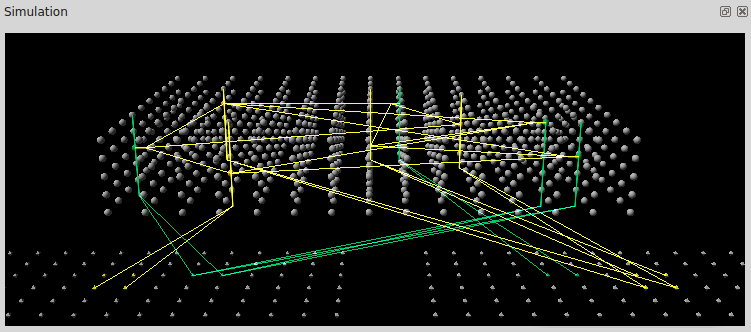
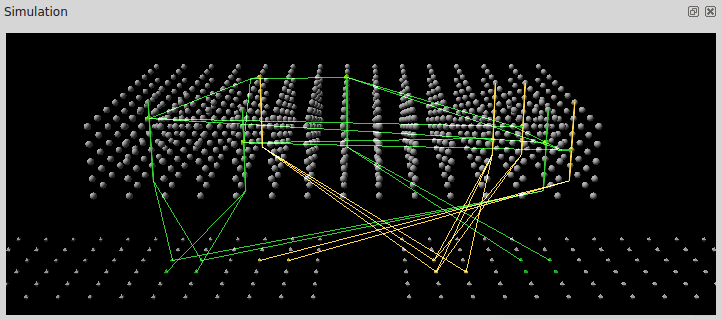
new color scheme

diff --git a/nustudio/ui/simulation_form.py b/nustudio/ui/simulation_form.py
@@ -43,30 +43,35 @@ class SimulationForm(QtGui.QWidget):
 		# Colors
 		colorGray = QtGui.QColor.fromRgb(190, 190, 190)
 		colorBlue = QtGui.QColor.fromRgb(0, 0, 255)
-		colorGreen = QtGui.QColor.fromRgb(0, 200, 100)
-		colorYellow = QtGui.QColor.fromRgb(255, 255, 50)
-		colorCopper = QtGui.QColor.fromRgb(255, 180, 100)
+		colorGreen = QtGui.QColor.fromRgb(50, 205, 50)
+		colorLightGreen = QtGui.QColor.fromRgb(125, 255, 0)
+		colorYellow = QtGui.QColor.fromRgb(255, 215, 80)
+		colorRed = QtGui.QColor.fromRgb(255, 0, 0)
 
 		# General color scheme
 		self.colorInactive = colorGray
 		self.colorSelected = colorBlue
 
 		# Sensor bit color scheme
-		self.colorBitActive = colorYellow
-		self.colorBitPredicted = colorGreen
+		self.colorBitActive = colorGreen
+		self.colorBitPredicted = colorYellow
+		self.colorBitFalselyPredicted = colorRed
 
 		# Cell color scheme
-		self.colorCellLearning = colorCopper
-		self.colorCellActive = colorYellow
-		self.colorCellPredicted = colorGreen
+		self.colorCellLearning = colorLightGreen
+		self.colorCellActive = colorGreen
+		self.colorCellPredicted = colorYellow
+		self.colorCellFalselyPredicted = colorRed
 
 		# Segment color scheme
-		self.colorSegmentActive = colorYellow
-		self.colorSegmentPredicted = colorGreen
+		self.colorSegmentActive = colorGreen
+		self.colorSegmentPredicted = colorYellow
+		self.colorSegmentFalselyPredicted = colorRed
 
 		# Synapse color scheme
-		self.colorSynapseConnected = colorYellow
-		self.colorSynapsePredicted = colorGreen
+		self.colorSynapseConnected = colorGreen
+		self.colorSynapsePredicted = colorYellow
+		self.colorSynapseFalselyPredicted = colorRed
 
 		#endregion
 
@@ -171,11 +176,18 @@ class SimulationForm(QtGui.QWidget):
 		self.menuShowBitsPredicted.setCheckable(True)
 		self.menuShowBitsPredicted.triggered.connect(self.menuShowBits_Click)
 
+		# menuShowBitsFalselyPredicted
+		self.menuShowBitsFalselyPredicted = QtGui.QAction(self)
+		self.menuShowBitsFalselyPredicted.setText("&Falsely Predicted")
+		self.menuShowBitsFalselyPredicted.setCheckable(True)
+		self.menuShowBitsFalselyPredicted.triggered.connect(self.menuShowBits_Click)
+
 		# menuShowBits
 		self.menuShowBits = QtGui.QMenu()
 		self.menuShowBits.addAction(self.menuShowBitsNone)
 		self.menuShowBits.addAction(self.menuShowBitsActive)
 		self.menuShowBits.addAction(self.menuShowBitsPredicted)
+		self.menuShowBits.addAction(self.menuShowBitsFalselyPredicted)
 		self.menuShowBits.setTitle("&Sensor bits")
 
 		# menuShowCellsNone
@@ -202,12 +214,19 @@ class SimulationForm(QtGui.QWidget):
 		self.menuShowCellsPredicted.setCheckable(True)
 		self.menuShowCellsPredicted.triggered.connect(self.menuShowCells_Click)
 
+		# menuShowCellsFalselyPredicted
+		self.menuShowCellsFalselyPredicted = QtGui.QAction(self)
+		self.menuShowCellsFalselyPredicted.setText("&Falsely Predicted")
+		self.menuShowCellsFalselyPredicted.setCheckable(True)
+		self.menuShowCellsFalselyPredicted.triggered.connect(self.menuShowCells_Click)
+
 		# menuShowCells
 		self.menuShowCells = QtGui.QMenu()
 		self.menuShowCells.addAction(self.menuShowCellsNone)
 		self.menuShowCells.addAction(self.menuShowCellsLearning)
 		self.menuShowCells.addAction(self.menuShowCellsActive)
 		self.menuShowCells.addAction(self.menuShowCellsPredicted)
+		self.menuShowCells.addAction(self.menuShowCellsFalselyPredicted)
 		self.menuShowCells.setTitle("C&ells")
 
 		# menuShowProximalSegmentsNone
@@ -228,11 +247,18 @@ class SimulationForm(QtGui.QWidget):
 		self.menuShowProximalSegmentsPredicted.setCheckable(True)
 		self.menuShowProximalSegmentsPredicted.triggered.connect(self.menuShowProximalSegments_Click)
 
+		# menuShowProximalSegmentsFalselyPredicted
+		self.menuShowProximalSegmentsFalselyPredicted = QtGui.QAction(self)
+		self.menuShowProximalSegmentsFalselyPredicted.setText("&Falsely Predicted")
+		self.menuShowProximalSegmentsFalselyPredicted.setCheckable(True)
+		self.menuShowProximalSegmentsFalselyPredicted.triggered.connect(self.menuShowProximalSegments_Click)
+
 		# menuShowProximalSegments
 		self.menuShowProximalSegments = QtGui.QMenu()
 		self.menuShowProximalSegments.addAction(self.menuShowProximalSegmentsNone)
 		self.menuShowProximalSegments.addAction(self.menuShowProximalSegmentsActive)
 		self.menuShowProximalSegments.addAction(self.menuShowProximalSegmentsPredicted)
+		self.menuShowProximalSegments.addAction(self.menuShowProximalSegmentsFalselyPredicted)
 		self.menuShowProximalSegments.setTitle("&Segments")
 
 		# menuShowProximalSynapsesNone
@@ -259,12 +285,19 @@ class SimulationForm(QtGui.QWidget):
 		self.menuShowProximalSynapsesPredicted.setCheckable(True)
 		self.menuShowProximalSynapsesPredicted.triggered.connect(self.menuShowProximalSynapses_Click)
 
+		# menuShowProximalSynapsesFalselyPredicted
+		self.menuShowProximalSynapsesFalselyPredicted = QtGui.QAction(self)
+		self.menuShowProximalSynapsesFalselyPredicted.setText("&Falsely Predicted")
+		self.menuShowProximalSynapsesFalselyPredicted.setCheckable(True)
+		self.menuShowProximalSynapsesFalselyPredicted.triggered.connect(self.menuShowProximalSynapses_Click)
+
 		# menuShowProximalSynapses
 		self.menuShowProximalSynapses = QtGui.QMenu()
 		self.menuShowProximalSynapses.addAction(self.menuShowProximalSynapsesNone)
 		self.menuShowProximalSynapses.addAction(self.menuShowProximalSynapsesConnected)
 		self.menuShowProximalSynapses.addAction(self.menuShowProximalSynapsesActive)
 		self.menuShowProximalSynapses.addAction(self.menuShowProximalSynapsesPredicted)
+		self.menuShowProximalSynapses.addAction(self.menuShowProximalSynapsesFalselyPredicted)
 		self.menuShowProximalSynapses.setTitle("&Synapses")
 
 		# menuShowProximal
@@ -617,6 +650,8 @@ class SimulationForm(QtGui.QWidget):
 		isVisible = True
 		if self.menuShowBitsNone.isChecked():
 			isVisible = False
+		elif (bit.isPredicted[Global.selStep - 1] and not bit.isActive[Global.selStep]) and self.menuShowBitsFalselyPredicted.isChecked():
+			color = self.colorBitFalselyPredicted
 		elif bit.isPredicted[Global.selStep] and self.menuShowBitsPredicted.isChecked():
 			color = self.colorBitPredicted
 		elif bit.isActive[Global.selStep] and self.menuShowBitsActive.isChecked():
@@ -654,6 +689,8 @@ class SimulationForm(QtGui.QWidget):
 		isVisible = True
 		if self.menuShowCellsNone.isChecked():
 			isVisible = False
+		elif (cell.isPredicted[Global.selStep - 1] and not cell.isActive[Global.selStep]) and self.menuShowCellsFalselyPredicted.isChecked():
+			color = self.colorCellFalselyPredicted
 		elif cell.isPredicted[Global.selStep] and self.menuShowCellsPredicted.isChecked():
 			color = self.colorCellPredicted
 		elif cell.isLearning[Global.selStep] and self.menuShowCellsLearning.isChecked():
@@ -753,6 +790,11 @@ class SimulationForm(QtGui.QWidget):
 			# Update properties according to state
 			if (segment.type == SegmentType.proximal and self.menuShowProximalSegmentsNone.isChecked()) or (segment.type == SegmentType.distal and self.menuShowDistalSegmentsNone.isChecked()):
 				isVisible = False
+			elif segment.isPredicted[Global.selStep - 1] and not segment.isActive[Global.selStep]:
+				if segment.type == SegmentType.proximal and self.menuShowProximalSegmentsFalselyPredicted.isChecked():
+					color = self.colorSegmentFalselyPredicted
+				else:
+					isVisible = False
 			elif segment.isPredicted[Global.selStep]:
 				if segment.type == SegmentType.proximal and self.menuShowProximalSegmentsPredicted.isChecked():
 					color = self.colorSegmentPredicted
@@ -797,6 +839,11 @@ class SimulationForm(QtGui.QWidget):
 			isVisible = True
 			if (segment.type == SegmentType.proximal and self.menuShowProximalSynapsesNone.isChecked()) or (segment.type == SegmentType.distal and self.menuShowDistalSynapsesNone.isChecked()):
 				isVisible = False
+			elif synapse.isPredicted[Global.selStep - 1] and not synapse.isConnected[Global.selStep]:
+				if (segment.type == SegmentType.proximal and self.menuShowProximalSynapsesFalselyPredicted.isChecked()):
+					color = self.colorSynapseFalselyPredicted
+				else:
+					isVisible = False
 			elif synapse.isPredicted[Global.selStep]:
 				if (segment.type == SegmentType.proximal and self.menuShowProximalSynapsesPredicted.isChecked()):
 					color = self.colorSynapsePredicted
@@ -848,17 +895,21 @@ class SimulationForm(QtGui.QWidget):
 				self.menuShowBitsNone.setChecked(view.showBitsNone)
 				self.menuShowBitsActive.setChecked(view.showBitsActive)
 				self.menuShowBitsPredicted.setChecked(view.showBitsPredicted)
+				self.menuShowBitsFalselyPredicted.setChecked(view.showBitsFalselyPredicted)
 				self.menuShowCellsNone.setChecked(view.showCellsNone)
 				self.menuShowCellsLearning.setChecked(view.showCellsLearning)
 				self.menuShowCellsActive.setChecked(view.showCellsActive)
 				self.menuShowCellsPredicted.setChecked(view.showCellsPredicted)
+				self.menuShowCellsFalselyPredicted.setChecked(view.showCellsFalselyPredicted)
 				self.menuShowProximalSegmentsNone.setChecked(view.showProximalSegmentsNone)
 				self.menuShowProximalSegmentsActive.setChecked(view.showProximalSegmentsActive)
 				self.menuShowProximalSegmentsPredicted.setChecked(view.showProximalSegmentsPredicted)
+				self.menuShowProximalSegmentsFalselyPredicted.setChecked(view.showProximalSegmentsFalselyPredicted)
 				self.menuShowProximalSynapsesNone.setChecked(view.showProximalSynapsesNone)
 				self.menuShowProximalSynapsesConnected.setChecked(view.showProximalSynapsesConnected)
 				self.menuShowProximalSynapsesActive.setChecked(view.showProximalSynapsesActive)
 				self.menuShowProximalSynapsesPredicted.setChecked(view.showProximalSynapsesPredicted)
+				self.menuShowProximalSynapsesFalselyPredicted.setChecked(view.showProximalSynapsesFalselyPredicted)
 				self.menuShowDistalSegmentsNone.setChecked(view.showDistalSegmentsNone)
 				self.menuShowDistalSegmentsActive.setChecked(view.showDistalSegmentsActive)
 				self.menuShowDistalSynapsesNone.setChecked(view.showDistalSynapsesNone)
@@ -892,6 +943,7 @@ class SimulationForm(QtGui.QWidget):
 			if self.menuShowBitsNone.isChecked():
 				self.menuShowBitsActive.setChecked(False)
 				self.menuShowBitsPredicted.setChecked(False)
+				self.menuShowBitsFalselyPredicted.setChecked(False)
 		else:
 			self.menuShowBitsNone.setChecked(False)
 
@@ -905,6 +957,7 @@ class SimulationForm(QtGui.QWidget):
 				self.menuShowCellsLearning.setChecked(False)
 				self.menuShowCellsActive.setChecked(False)
 				self.menuShowCellsPredicted.setChecked(False)
+				self.menuShowCellsFalselyPredicted.setChecked(False)
 		else:
 			self.menuShowCellsNone.setChecked(False)
 
@@ -917,6 +970,7 @@ class SimulationForm(QtGui.QWidget):
 			if self.menuShowProximalSegmentsNone.isChecked():
 				self.menuShowProximalSegmentsActive.setChecked(False)
 				self.menuShowProximalSegmentsPredicted.setChecked(False)
+				self.menuShowProximalSegmentsFalselyPredicted.setChecked(False)
 		else:
 			self.menuShowProximalSegmentsNone.setChecked(False)
 
@@ -930,6 +984,7 @@ class SimulationForm(QtGui.QWidget):
 				self.menuShowProximalSynapsesConnected.setChecked(False)
 				self.menuShowProximalSynapsesActive.setChecked(False)
 				self.menuShowProximalSynapsesPredicted.setChecked(False)
+				self.menuShowProximalSynapsesFalselyPredicted.setChecked(False)
 		else:
 			self.menuShowProximalSynapsesNone.setChecked(False)
 
@@ -987,17 +1042,21 @@ class SimulationForm(QtGui.QWidget):
 				view.showBitsNone = self.menuShowBitsNone.isChecked()
 				view.showBitsActive = self.menuShowBitsActive.isChecked()
 				view.showBitsPredicted = self.menuShowBitsPredicted.isChecked()
+				view.showBitsFalselyPredicted = self.menuShowBitsFalselyPredicted.isChecked()
 				view.showCellsNone = self.menuShowCellsNone.isChecked()
 				view.showCellsLearning = self.menuShowCellsLearning.isChecked()
 				view.showCellsActive = self.menuShowCellsActive.isChecked()
 				view.showCellsPredicted = self.menuShowCellsPredicted.isChecked()
+				view.showCellsFalselyPredicted = self.menuShowCellsFalselyPredicted.isChecked()
 				view.showProximalSegmentsNone = self.menuShowProximalSegmentsNone.isChecked()
 				view.showProximalSegmentsActive = self.menuShowProximalSegmentsActive.isChecked()
 				view.showProximalSegmentsPredicted = self.menuShowProximalSegmentsPredicted.isChecked()
+				view.showProximalSegmentsFalselyPredicted = self.menuShowProximalSegmentsFalselyPredicted.isChecked()
 				view.showProximalSynapsesNone = self.menuShowProximalSynapsesNone.isChecked()
 				view.showProximalSynapsesConnected = self.menuShowProximalSynapsesConnected.isChecked()
 				view.showProximalSynapsesActive = self.menuShowProximalSynapsesActive.isChecked()
 				view.showProximalSynapsesPredicted = self.menuShowProximalSynapsesPredicted.isChecked()
+				view.showProximalSynapsesFalselyPredicted = self.menuShowProximalSynapsesFalselyPredicted.isChecked()
 				view.showDistalSegmentsNone = self.menuShowDistalSegmentsNone.isChecked()
 				view.showDistalSegmentsActive = self.menuShowDistalSegmentsActive.isChecked()
 				view.showDistalSynapsesNone = self.menuShowDistalSynapsesNone.isChecked()

diff --git a/nustudio/ui/__init__.py b/nustudio/ui/__init__.py
@@ -20,17 +20,21 @@ class View:
 		self.showBitsNone = False
 		self.showBitsActive = True
 		self.showBitsPredicted = True
+		self.showBitsFalselyPredicted = True
 		self.showCellsNone = False
 		self.showCellsLearning = True
 		self.showCellsActive = True
 		self.showCellsPredicted = True
+		self.showCellsFalselyPredicted = True
 		self.showProximalSegmentsNone = False
 		self.showProximalSegmentsActive = True
 		self.showProximalSegmentsPredicted = True
+		self.showProximalSegmentsFalselyPredicted = True
 		self.showProximalSynapsesNone = False
 		self.showProximalSynapsesConnected = True
 		self.showProximalSynapsesActive = True
 		self.showProximalSynapsesPredicted = True
+		self.showProximalSynapsesFalselyPredicted = True
 		self.showDistalSegmentsNone = False
 		self.showDistalSegmentsActive = True
 		self.showDistalSynapsesNone = False
@@ -78,17 +82,21 @@ class Global:
 						view.showBitsNone = Global.__getBooleanAttribute(xmlReader.attributes(), 'showBitsNone')
 						view.showBitsActive = Global.__getBooleanAttribute(xmlReader.attributes(), 'showBitsActive')
 						view.showBitsPredicted = Global.__getBooleanAttribute(xmlReader.attributes(), 'showBitsPredicted')
+						view.showBitsFalselyPredicted = Global.__getBooleanAttribute(xmlReader.attributes(), 'showBitsFalselyPredicted')
 						view.showCellsNone = Global.__getBooleanAttribute(xmlReader.attributes(), 'showCellsNone')
 						view.showCellsLearning = Global.__getBooleanAttribute(xmlReader.attributes(), 'showCellsLearning')
 						view.showCellsActive = Global.__getBooleanAttribute(xmlReader.attributes(), 'showCellsActive')
 						view.showCellsPredicted = Global.__getBooleanAttribute(xmlReader.attributes(), 'showCellsPredicted')
+						view.showCellsFalselyPredicted = Global.__getBooleanAttribute(xmlReader.attributes(), 'showCellsFalselyPredicted')
 						view.showProximalSegmentsNone = Global.__getBooleanAttribute(xmlReader.attributes(), 'showProximalSegmentsNone')
 						view.showProximalSegmentsActive = Global.__getBooleanAttribute(xmlReader.attributes(), 'showProximalSegmentsActive')
 						view.showProximalSegmentsPredicted = Global.__getBooleanAttribute(xmlReader.attributes(), 'showProximalSegmentsPredicted')
+						view.showProximalSegmentsFalselyPredicted = Global.__getBooleanAttribute(xmlReader.attributes(), 'showProximalSegmentsFalselyPredicted')
 						view.showProximalSynapsesNone = Global.__getBooleanAttribute(xmlReader.attributes(), 'showProximalSynapsesNone')
 						view.showProximalSynapsesConnected = Global.__getBooleanAttribute(xmlReader.attributes(), 'showProximalSynapsesConnected')
 						view.showProximalSynapsesActive = Global.__getBooleanAttribute(xmlReader.attributes(), 'showProximalSynapsesActive')
 						view.showProximalSynapsesPredicted = Global.__getBooleanAttribute(xmlReader.attributes(), 'showProximalSynapsesPredicted')
+						view.showProximalSynapsesFalselyPredicted = Global.__getBooleanAttribute(xmlReader.attributes(), 'showProximalSynapsesFalselyPredicted')
 						view.showDistalSegmentsNone = Global.__getBooleanAttribute(xmlReader.attributes(), 'showDistalSegmentsNone')
 						view.showDistalSegmentsActive = Global.__getBooleanAttribute(xmlReader.attributes(), 'showDistalSegmentsActive')
 						view.showDistalSynapsesNone = Global.__getBooleanAttribute(xmlReader.attributes(), 'showDistalSynapsesNone')
@@ -150,17 +158,21 @@ class Global:
 			xmlWriter.writeAttribute('showBitsNone',  str(view.showBitsNone))
 			xmlWriter.writeAttribute('showBitsActive',  str(view.showBitsActive))
 			xmlWriter.writeAttribute('showBitsPredicted',  str(view.showBitsPredicted))
+			xmlWriter.writeAttribute('showBitsFalselyPredicted',  str(view.showBitsFalselyPredicted))
 			xmlWriter.writeAttribute('showCellsNone',  str(view.showCellsNone))
 			xmlWriter.writeAttribute('showCellsLearning',  str(view.showCellsLearning))
 			xmlWriter.writeAttribute('showCellsActive',  str(view.showCellsActive))
 			xmlWriter.writeAttribute('showCellsPredicted',  str(view.showCellsPredicted))
+			xmlWriter.writeAttribute('showCellsFalselyPredicted',  str(view.showCellsFalselyPredicted))
 			xmlWriter.writeAttribute('showProximalSegmentsNone',  str(view.showProximalSegmentsNone))
 			xmlWriter.writeAttribute('showProximalSegmentsActive',  str(view.showProximalSegmentsActive))
 			xmlWriter.writeAttribute('showProximalSegmentsPredicted',  str(view.showProximalSegmentsPredicted))
+			xmlWriter.writeAttribute('showProximalSegmentsFalselyPredicted',  str(view.showProximalSegmentsFalselyPredicted))
 			xmlWriter.writeAttribute('showProximalSynapsesNone',  str(view.showProximalSynapsesNone))
 			xmlWriter.writeAttribute('showProximalSynapsesConnected',  str(view.showProximalSynapsesConnected))
 			xmlWriter.writeAttribute('showProximalSynapsesActive',  str(view.showProximalSynapsesActive))
 			xmlWriter.writeAttribute('showProximalSynapsesPredicted',  str(view.showProximalSynapsesPredicted))
+			xmlWriter.writeAttribute('showProximalSynapsesFalselyPredicted',  str(view.showProximalSynapsesFalselyPredicted))
 			xmlWriter.writeAttribute('showDistalSegmentsNone',  str(view.showDistalSegmentsNone))
 			xmlWriter.writeAttribute('showDistalSegmentsActive',  str(view.showDistalSegmentsActive))
 			xmlWriter.writeAttribute('showDistalSynapsesNone',  str(view.showDistalSynapsesNone))

diff --git a/nustudio/ui/simulation_legend_form.py b/nustudio/ui/simulation_legend_form.py
@@ -29,9 +29,18 @@ class SimulationLegendForm(QtGui.QDialog):
 		self.labelInactiveElement = QtGui.QLabel()
 		self.labelInactiveElement.setText("Inactive")
 
+		# buttonFalselyPredictedElement
+		self.buttonFalselyPredictedElement = QtGui.QPushButton()
+		self.buttonFalselyPredictedElement.setStyleSheet("background-color: rgb(255, 0, 0)")
+		self.buttonFalselyPredictedElement.setEnabled(False)
+
+		# labelFalselyPredictedElement
+		self.labelFalselyPredictedElement = QtGui.QLabel()
+		self.labelFalselyPredictedElement.setText("Falsely Predicted")
+
 		# buttonPredictedElement
 		self.buttonPredictedElement = QtGui.QPushButton()
-		self.buttonPredictedElement.setStyleSheet("background-color: rgb(0, 200, 100)")
+		self.buttonPredictedElement.setStyleSheet("background-color: rgb(255, 215, 80)")
 		self.buttonPredictedElement.setEnabled(False)
 
 		# labelPredictedElement
@@ -40,7 +49,7 @@ class SimulationLegendForm(QtGui.QDialog):
 
 		# buttonActiveElement
 		self.buttonActiveElement = QtGui.QPushButton()
-		self.buttonActiveElement.setStyleSheet("background-color: rgb(255, 255, 50)")
+		self.buttonActiveElement.setStyleSheet("background-color: rgb(50, 205, 50)")
 		self.buttonActiveElement.setEnabled(False)
 
 		# labelActiveElement
@@ -49,7 +58,7 @@ class SimulationLegendForm(QtGui.QDialog):
 
 		# buttonLearningElement
 		self.buttonLearningElement = QtGui.QPushButton()
-		self.buttonLearningElement.setStyleSheet("background-color: rgb(255, 180, 100)")
+		self.buttonLearningElement.setStyleSheet("background-color: rgb(125, 255, 0)")
 		self.buttonLearningElement.setEnabled(False)
 
 		# labelLearningElement
@@ -69,14 +78,16 @@ class SimulationLegendForm(QtGui.QDialog):
 		layout = QtGui.QGridLayout()
 		layout.addWidget(self.buttonInactiveElement, 0, 0)
 		layout.addWidget(self.labelInactiveElement, 0, 1)
-		layout.addWidget(self.buttonPredictedElement, 1, 0)
-		layout.addWidget(self.labelPredictedElement, 1, 1)
-		layout.addWidget(self.buttonActiveElement, 2, 0)
-		layout.addWidget(self.labelActiveElement, 2, 1)
-		layout.addWidget(self.buttonLearningElement, 3, 0)
-		layout.addWidget(self.labelLearningElement, 3, 1)
-		layout.addWidget(self.buttonSelectedElement, 4, 0)
-		layout.addWidget(self.labelSelectedElement, 4, 1)
+		layout.addWidget(self.buttonFalselyPredictedElement, 1, 0)
+		layout.addWidget(self.labelFalselyPredictedElement, 1, 1)
+		layout.addWidget(self.buttonPredictedElement, 2, 0)
+		layout.addWidget(self.labelPredictedElement, 2, 1)
+		layout.addWidget(self.buttonActiveElement, 3, 0)
+		layout.addWidget(self.labelActiveElement, 3, 1)
+		layout.addWidget(self.buttonLearningElement, 4, 0)
+		layout.addWidget(self.labelLearningElement, 4, 1)
+		layout.addWidget(self.buttonSelectedElement, 5, 0)
+		layout.addWidget(self.labelSelectedElement, 5, 1)
 		layout.setRowStretch(1, 100)
 
 		# SimulationLegendForm
